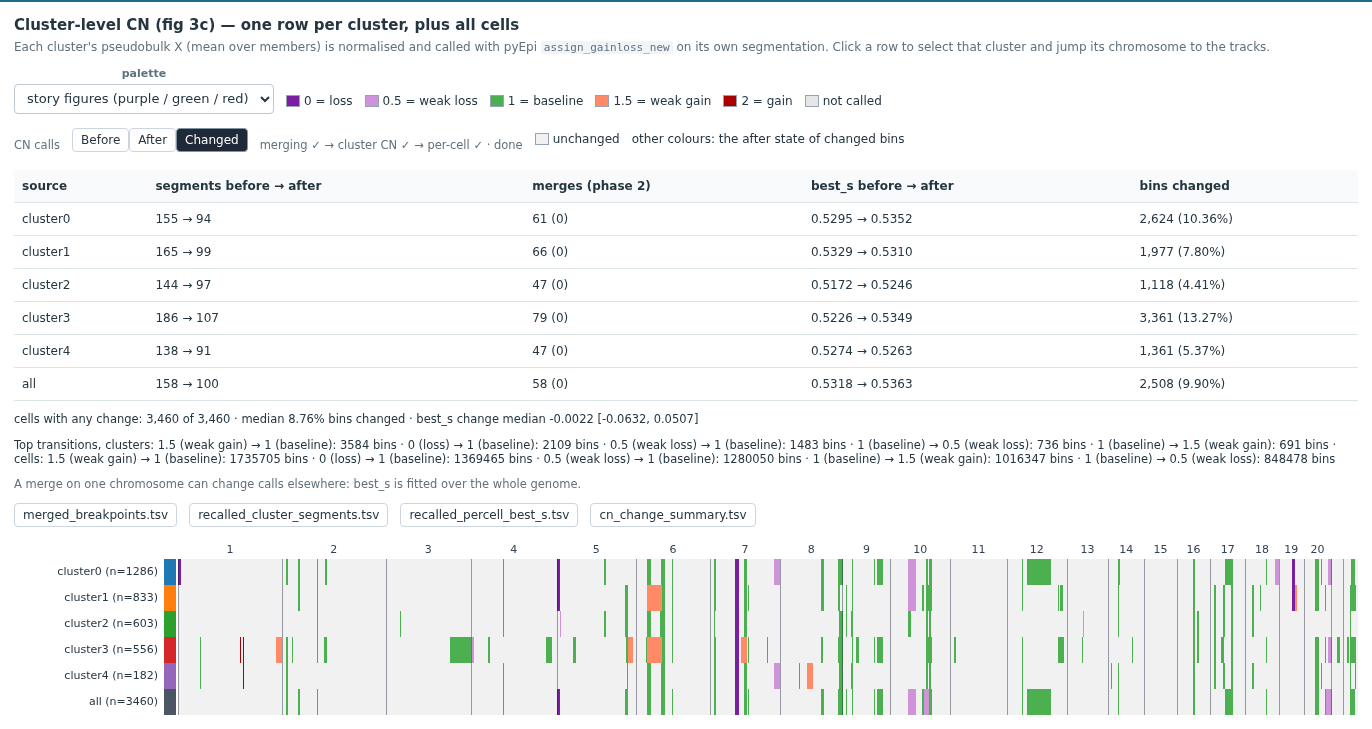
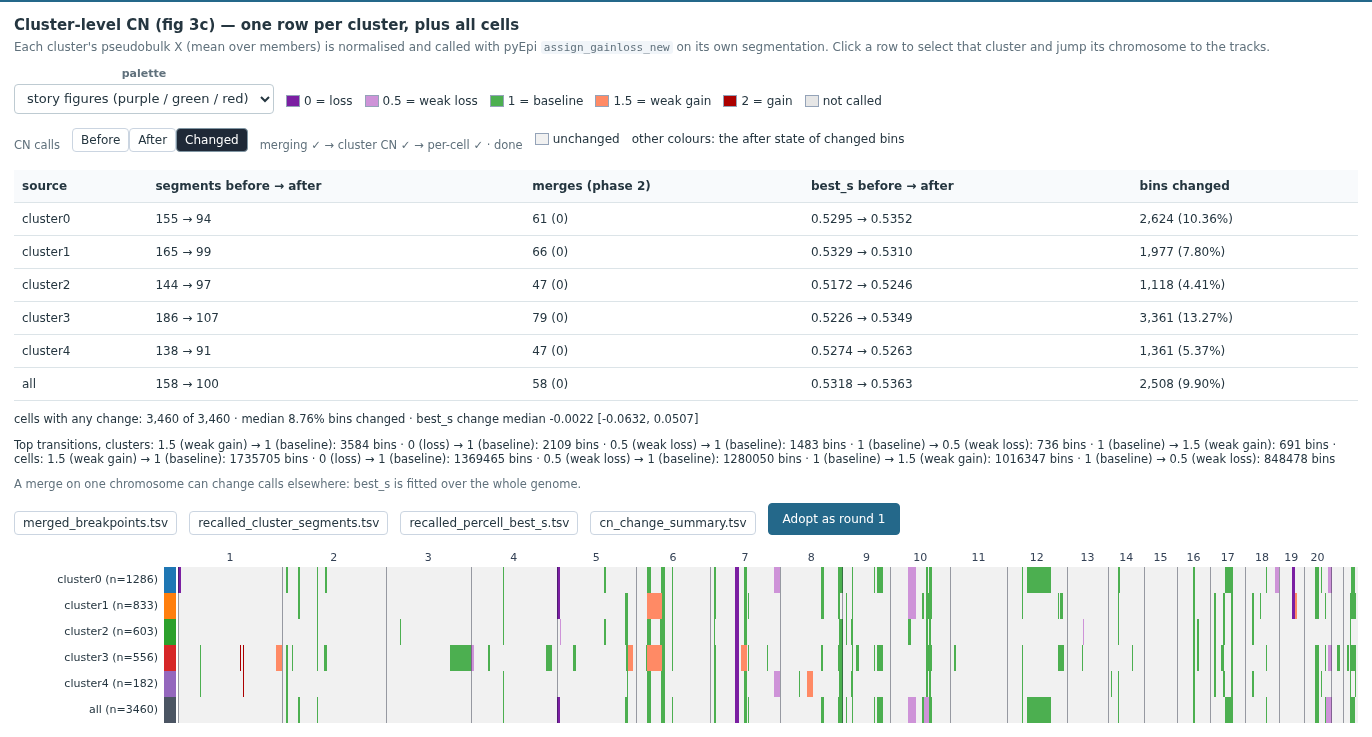
docs, test: merge-rounds walkthrough, validation record and docs

diff --git a/docs/ARCHITECTURE.md b/docs/ARCHITECTURE.md
@@ -21,6 +21,7 @@ test evidence and screenshots.
 | `server/hatch_merge.py` | Flank scoring for the exploratory tools: SRD, SRD/√φ, Δlog2FC, pooled φ, gap flags, and `score_rows()` / `hatch_scores()`. Independent of `flank_view.py` and the archived merge prototype. |
 | `server/merge_rules.py` / `server/hatch_merge_api.py` | Rule 0 (criteria checklist, all/any, sign switch, the `mergeSignsOnly` last phase; direction toward the criterion furthest below its threshold) plus user-defined merge rules, including Rule 0 copies (`type: "flank_threshold"`): validation, per-segment evaluation (Rule 0 first, then OR of ANDs), and the one-merge-per-step loop, ordered by (phase, rule, score, start), with φ recomputed every step and a `phase` on every step; the `hatch-scores` and `hatch-merge` routes. See [SCIENTIFIC_WORKFLOW.md](SCIENTIFIC_WORKFLOW.md)'s worked example 2. |
 | `server/cn_recall.py` / `server/cn_recall_api.py` | Genome-wide merge plus CN re-call: merges every chromosome with the posted rules, re-calls CN with pyEpi `assign_gainloss_new` (unmodified), diffs against the original, and holds the latest 3 results in memory (lost on restart; identical rules and data reuse a job). Routes: `POST /api/integration/recall` (start or reuse a job), `GET /api/integration/recall/{id}` (status, stage, progress, impact summary), `GET /api/integration/recall/{id}/percell.bin` (re-called per-cell calls; 409 until ready). |
+| `server/merge_rounds.py` / `server/call_noise.py` | Merge rounds: `merge_rounds.py` applies a list of rounds in order (each merges on the original pseudobulk, boundaries carried over; an invalid round gives HTTP 422 `round <i>: …`) and hashes the recipe; `call_noise.py` computes the call-noise table (segments, zig-zags, zig-zag median length, gain next to loss) per source, level and round. `hatch-scores`, `hatch-merge` and `recall` accept an optional `rounds` list (left out or `[]` gives exactly the old responses). `POST /api/integration/base` returns the base for `rounds` (breakpoints, noise, and the per-cell job state); `POST /api/integration/recall/{id}/pin` pins a finished re-call as the base's per-cell calls (exactly one pinned job, never evicted); calls-only jobs recompute a base's per-cell calls without a merge. |
 | `server/jobs.py` | Bounded worker-process pool for expensive computation. Workers use multiprocessing `spawn` — worker functions must be importable/picklable at module level, not defined as closures. |
 
 ## Frontend (`web/src/`)
@@ -34,6 +35,8 @@ test evidence and screenshots.
 | `hatchMerge.ts` | Score/result types and the API client for `hatch-scores` / `hatch-merge`. |
 | `mergeRules.ts` | Rule types (including Rule 0 and its display outcome / `rule0FromSeg`), presets, legacy-session migration, and a 1:1 TypeScript port of `server/merge_rules.py`'s evaluator, so hatches update live while rules are edited. `tests/fixtures/merge_rules_parity.json` is checked against both implementations. |
 | `cnRecall.ts` | Re-call API client and polling, Changed-mode row builder, and the TSV writers for the four exports. Covered by `tests/cn_recall_helpers.ts`. |
+| `mergeRounds.ts` | Merge-round types (`Round`, `WireRound`, `Noise`), the strip text, karyogram modes, noise-table rows, `noise_by_round.tsv` writer, session restore and the `/api/integration/base` and pin clients. Covered by `tests/merge_rounds_helpers.ts`. |
+| Store fields (`integrationStore.ts`) | `rounds` (saved with the session), `base`, `baseSig`, `baseError`, `roundsNotice`, `baseKaryo`, `baseCalls`; actions `setRounds`, `undoRound`, `resetRounds` and the adopt action, which pins the finished re-call on the server. |
 | `trackMetrics.ts` | Live colour metrics for the tracks (smaller-\|value\| flank), migration of archived colour ids in saved sessions, and derivation of candidate-audit rejection reasons from p-values. |
 | `api.ts` | Fetch wrapper. |
 | `components/` | Major workspaces: `CohortView`, `ExplorerView`, `ManualView`, `ExperimentView`, `IntegrationClustersView`, `IntegrationSegmentationView`, `HatchMergeView`, `RecallImpact` (CN re-call impact summary and exports), `MergeRulesEditor`, `AlternativeFlankView`, `PairedFlankBootstrap`, plus shared `Plot`/`DeferredPlot` Plotly wrappers. `DeferredPlot` exists specifically to defer initializing off-screen charts until scrolled into view — see [`validation/integration-freeze/REPORT.md`](../validation/integration-freeze/REPORT.md) for the responsiveness investigation that motivated it. |

diff --git a/tests/README.md b/tests/README.md
@@ -12,18 +12,20 @@ Three kinds of tests live here:
 ## Files
 
 - `test_experiments.py`, `test_segment_estimators.py`, `test_jobs.py`,
-  `test_hatch_merge.py`, `test_merge_rules.py`, `test_integration_review.py` — pytest unit/route
+  `test_hatch_merge.py`, `test_merge_rules.py`, `test_merge_rounds.py`, `test_call_noise.py`, `test_merge_rounds_api.py`, `test_integration_review.py` — pytest unit/route
   tests.
 - `validate.py`, `validate_integration_review.py` — standalone API
   validation scripts (run against a live server).
 - `parity_reference.py` / `parity_browser.mjs` — Python-vs-TypeScript
   numerical parity.
 - `experiment_overlays.ts`, `hatch_merge_helpers.ts`,
-  `merge_rules_helpers.ts`, `cn_recall_helpers.ts` (Changed-mode rows and export TSV writers), `track_helpers.ts` (live track metrics, session migration, audit reasons), `integration_helpers.ts` — TypeScript logic
+  `merge_rules_helpers.ts`, `merge_rounds_helpers.ts` (round strip, noise rows and export, session restore), `cn_recall_helpers.ts` (Changed-mode rows and export TSV writers), `track_helpers.ts` (live track metrics, session migration, audit reasons), `integration_helpers.ts` — TypeScript logic
   ported from Python, bundled with esbuild and run under Node so it can be
   tested without a browser. For example:
   `web/node_modules/.bin/esbuild tests/merge_rules_helpers.ts --bundle --format=esm --platform=node --outfile=tests/_bundle/merge_rules_helpers.mjs && node tests/_bundle/merge_rules_helpers.mjs`
-  Same pattern for the re-call helpers:
+  Same pattern for the merge-rounds helpers:
+  `web/node_modules/.bin/esbuild tests/merge_rounds_helpers.ts --bundle --format=esm --platform=node --outfile=tests/_bundle/merge_rounds_helpers.mjs && node tests/_bundle/merge_rounds_helpers.mjs`
+  and for the re-call helpers:
   `web/node_modules/.bin/esbuild tests/cn_recall_helpers.ts --bundle --format=esm --platform=node --outfile=tests/_bundle/cn_recall_helpers.mjs && node tests/_bundle/cn_recall_helpers.mjs`
 - `compare_archived_live.py` — compares the archived flank/screening tables
   with live `hatch-scores` on the pilot chromosomes (needs a running server;
@@ -36,7 +38,7 @@ Three kinds of tests live here:
 - `browser_experiments.cjs`, `browser_workflows.cjs`,
   `browser_experiment_depth.cjs`, `browser_integration_rendering.cjs`,
   `browser_integration_review.cjs`, `browser_integration_freeze.cjs`,
-  `browser_hatch_merge_walkthrough.cjs` (set `BASE_URL` to target a server other than http://127.0.0.1:8766, e.g. a private `python3 run.py --port 8799`; it covers the sign switch, the last-phase option and phase-2 history on chr7, Rule 0 copies, and the absence of the removed flank-conflict and breakpoint layers), `browser_cn_recall_walkthrough.cjs` (genome merge + CN re-call: button and status stages, Before/After/Changed on both karyograms, impact summary, `merged_breakpoints.tsv` export and the stale notice at τ 0.5 / ref 8 / any; needs a free port such as a private `python3 run.py --port 8799`, takes about a minute on a cold server, and writes `validation/cn-recall/`), `browser_restore.cjs` — Playwright
+  `browser_hatch_merge_walkthrough.cjs` (set `BASE_URL` to target a server other than http://127.0.0.1:8766, e.g. a private `python3 run.py --port 8799`; it covers the sign switch, the last-phase option and phase-2 history on chr7, Rule 0 copies, and the absence of the removed flank-conflict and breakpoint layers), `browser_cn_recall_walkthrough.cjs` (genome merge + CN re-call: button and status stages, Before/After/Changed on both karyograms, impact summary, `merged_breakpoints.tsv` export and the stale notice at τ 0.5 / ref 8 / any, then merge rounds: adopt, fewer track breakpoints, Round 1 noise column, a same-rules re-call with 0 merges, and undo; needs a free port such as a private `python3 run.py --port 8799`, takes about a minute on a cold server, and writes `validation/cn-recall/`), `browser_restore.cjs` — Playwright
   workflow tests, one per feature area.
 
 ## Prerequisites

diff --git a/docs/USAGE.md b/docs/USAGE.md
@@ -108,6 +108,29 @@ Both karyograms get a **Karyogram mode** switch: **Before** (the original calls,
 
 Results are kept in memory only: the latest 3 re-calls are kept and all are lost on restart. Identical rules on the same data reuse the finished result.
 
+### Merge rounds
+
+A re-call can be adopted as a **merge round**, so that section 2 (tracks, scores, hatching, the merge panel) works on the merged segmentation instead of the original one.
+
+1. Run **Merge genome & re-call CN** with the rules you want. When it is done, click **Adopt as round N** in **CN re-call impact**.
+2. The strip *Segmentation base: Original → Round 1 (…, M merges)* shows the current base. The tracks lose the breakpoints that round merged away, and the scores and hatches are computed on the new base.
+3. Change the rules, then re-call again (**Merge genome & re-call CN**). The re-call now starts from the base, and can be adopted as the next round.
+4. **Undo last round** removes the newest round; **Back to original** removes all of them.
+
+**Original / Before / After / Changed.** *Original* always shows the unmerged data. *Before* shows the current base (the same as Original when there are no rounds). *After* shows the latest re-call on that base, and *Changed* draws in colour only the bins where After differs from Before.
+
+**Call noise by round.** The table lists, per source and per level (cluster and cells), the segments, the zig-zags, the zig-zag median length (bins) and gain next to loss, with one column per round (Original, Round 1, …, After). Use the scope switch for this chromosome or genome-wide. Definitions, shown under the table:
+
+- Calls are read per chromosome as the sequence of segment states. Segments with no call are skipped. Gain = state > 1 (weak gain included), loss = state < 1.
+- Zig-zag: an internal segment whose state differs from both neighbours, while the two neighbours have the same state as each other.
+- Gain next to loss: a boundary with a gain on one side and a loss on the other. This can be real (for example an unbalanced rearrangement), so it is counted but never merged automatically.
+- Cell values: the mean per cell over all cells of the cluster. The zig-zag median length is taken over all of those cells' zig-zags. For all, the cells are every cell, each read under its own cluster's segmentation.
+
+The table downloads as `noise_by_round.tsv`.
+
+Rounds are saved with the session. After a server restart the base's per-cell calls are recomputed on first use (about 60 s); the rounds themselves are not lost.
+
+
 ## Recompute integration flank comparisons
 
 In **Integration · segmentation & CN**, use **Generate alternative flank view**. Choose chromosome/source and maximum internal-segment size, then compare arithmetic, median and two-sided IQR effects against both adjacent segments. Click a point or choose a segment to see its unsmoothed bin values and summaries.

diff --git a/docs/SCIENTIFIC_WORKFLOW.md b/docs/SCIENTIFIC_WORKFLOW.md
@@ -84,6 +84,9 @@ consequences before deciding whether to run another.
 
 **Re-calling CN on the merged segmentation.** The genome-wide re-call (Merge genome & re-call CN) merges every chromosome with the same rules, then re-calls copy number with pyEpiAneufinder's `assign_gainloss_new`, unmodified and in the same way as `make_karyograms.py`. A no-op identity test (re-calling an unmerged segmentation) reproduces `karyogram_cluster_segments.tsv` exactly and 20 sampled cells of `percell_cn_states.npy` (with their `best_s`). `best_s` is fitted genome-wide, so a merge on one chromosome can change calls on others; the impact summary counts changes everywhere, not only where segments merged. These results are exploratory diagnostics, not validated replacement calls.
 
+**Merge rounds.** An adopted re-call becomes the base for the next one. Every round merges on the original pseudobulk; only the boundaries carry over from round to round, so a round never works on a smoothed signal. For the same reason, running the same rules twice gives 0 merges the second time: the boundaries those rules would remove are already gone. Zig-zags whose two steps point the same way are kept by Rule 0 by design, and the separate spike/dip rule for them is parked. A gain next to a loss can be real (for example an unbalanced rearrangement), so the noise table counts it but nothing merges it automatically. The call-noise table (segments, zig-zags, zig-zag median length, gain next to loss) is a descriptive comparison between rounds, not a validation of the calls.
+
+
 ## What this repository's diagnostic capabilities support, by loop stage
 
 - **Forming a hypothesis:** Cohort karyogram, Explore output, Integration ·

diff --git a/README.md b/README.md
@@ -55,6 +55,7 @@ worked examples of this loop in this repository.
 - **X experiments** — original-vs-edited data, empirical state simulations, region extension/duplication, width series, event-edge tests, four CN comparisons.
 - **Integration · clusters** — multimodal WNN/depth/allelic UMAPs with linked selection and per-cell inspection.
 - **Integration · segmentation & CN** — cluster-level and per-cell karyograms, configurable chromosome tracks, an on-demand alternative flank view and paired-cell bootstrap, and live-score tracks (any chromosome) hatched by Rule 0, user-defined merge rules with per-rule hatching, and an exploratory adjacent-segment merge. A genome-wide **Merge genome & re-call CN** button re-calls copy number on the merged segmentation and compares it on the karyograms (Before · After · Changed) with an impact summary and TSV exports; results are held in memory only.
+- **Merge rounds** — adopt a re-call as a merge round; section 2 then works on the merged segmentation; undo or go back to the original; call-noise table by round.
 
 See [docs/USAGE.md](docs/USAGE.md) for the full operational detail.
 
